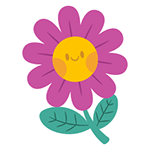
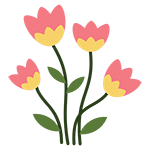
feature/minor-changes-flower-quest
This branch includes minor changes to the game mechanics, ensuring that the wolf moves only one tile instead of two. Additionally, a check has been added to exclude spawning a tree in the middle of the grid, which is the wolf's spawn point. The number of trees has been increased to enhance the forest environment. Furthermore, a new flower image has been added for the quest of gathering flowers, enhancing the visual experience of the game.

diff --git a/src/App.tsx b/src/App.tsx
@@ -4,6 +4,7 @@ import "./styles.css";
 import ForestGrid from "./ForestGrid";
 
 const GRID_SIZE = 20; // Assuming a 20x20 grid
+const NUM_TREES = 50; // Number of trees to spawn
 const NUM_FLOWERS = 30; // Number of flowers to spawn
 const MOVEMENT_DELAY = 100; // Delay in milliseconds between consecutive player movements
 
@@ -35,19 +36,20 @@ const App: React.FC = () => {
     const newTreePositions: Array<{ x: number; y: number }> = [];
     const grannyHouseX = GRID_SIZE - 1; // x-coordinate of the granny's house
     const grannyHouseY = GRID_SIZE - 1; // y-coordinate of the granny's house
-    for (let i = 0; i < GRID_SIZE * 2; i++) {
-      let x = Math.floor(Math.random() * GRID_SIZE);
-      let y = Math.floor(Math.random() * GRID_SIZE);
-      // Exclude the first cell (0, 0) from the list of tree positions
-      // because it is the player's starting position
-      // Exclude cells closest to the granny's house
-      while (
-        (x === 0 && y === 0) || // Exclude the player's starting position
-        (Math.abs(x - grannyHouseX) <= 1 && Math.abs(y - grannyHouseY) <= 1)
-      ) {
+    const middlePosition = Math.floor(GRID_SIZE / 2);
+    let newEnemyPosition = { x: middlePosition, y: middlePosition };
+    // Generate trees excluding the enemy's initial position
+    for (let i = 0; i < NUM_TREES; i++) {
+      let x, y;
+      do {
         x = Math.floor(Math.random() * GRID_SIZE);
         y = Math.floor(Math.random() * GRID_SIZE);
-      }
+
+      } while (
+        (x === newEnemyPosition.x && y === newEnemyPosition.y) || // Exclude the enemy's initial position
+        (x === 0 && y === 0) || // Exclude the player's starting position
+        (Math.abs(x - grannyHouseX) <= 1 && Math.abs(y - grannyHouseY) <= 1) // Exclude cells closest to the granny's house
+      );
       newTreePositions.push({ x, y });
     }
     setTreePositions(newTreePositions);
@@ -278,7 +280,7 @@ const App: React.FC = () => {
         }
         // Move the enemy along the path
         if (path.length > 1) {
-          const nextPosition = path[1];
+          const nextPosition = path[0];
           setEnemyPosition(nextPosition);
           return;
         }

diff --git a/src/styles.css b/src/styles.css
@@ -55,27 +55,32 @@ body {
 .tree {
   background: url(../public/assets/images/tree.png) no-repeat center center /
     contain;
-  transform: scale(2);
+  transform: scaleX(0) scaleY(0);
+  animation: scaleTree 2s forwards;
+}
+
+@keyframes scaleTree {
+  from {
+    transform: scaleX(0) scaleY(0);
+  }
+  to {
+    transform: scaleX(2) scaleY(2);
+  }
 }
 
 .flower {
-  background: url(https://cdn-icons-png.flaticon.com/512/5533/5533763.png)
-    no-repeat center center / 70%;
-  animation-name: moving;
-  animation-duration: 3s;
-  animation-iteration-count: infinite;
-  animation-timing-function: ease-in-out;
+  background: url(../public/assets/images/flower.png) no-repeat center center /
+    contain;
+  transform: scaleX(0) scaleY(0);
+  animation: scaleFlower 1s forwards;
 }
 
-@keyframes moving {
+@keyframes scaleFlower {
   from {
-    transform: translate(0, 0px) rotate(-10deg);
-  }
-  65% {
-    transform: translate(2px, 0px) rotate(10deg);
+    transform: scaleX(0) scaleY(0);
   }
   to {
-    transform: translate(0, -0px) rotate(-10deg);
+    transform: scaleX(1) scaleY(1);
   }
 }
 

diff --git a/src/ForestGrid.tsx b/src/ForestGrid.tsx
@@ -10,8 +10,8 @@ interface Props {
   enemyDirection: string;
   isPlayerEnemyOverlap: boolean;
   grannyHousePosition: { x: number; y: number };
-  flowers: Array<{ x: number; y: number }>; // Add this line
-  collectedFlowers: number; // Add this line
+  flowers: Array<{ x: number; y: number }>;
+  collectedFlowers: number;
 }
 
 const ForestGrid: React.FC<Props> = ({
